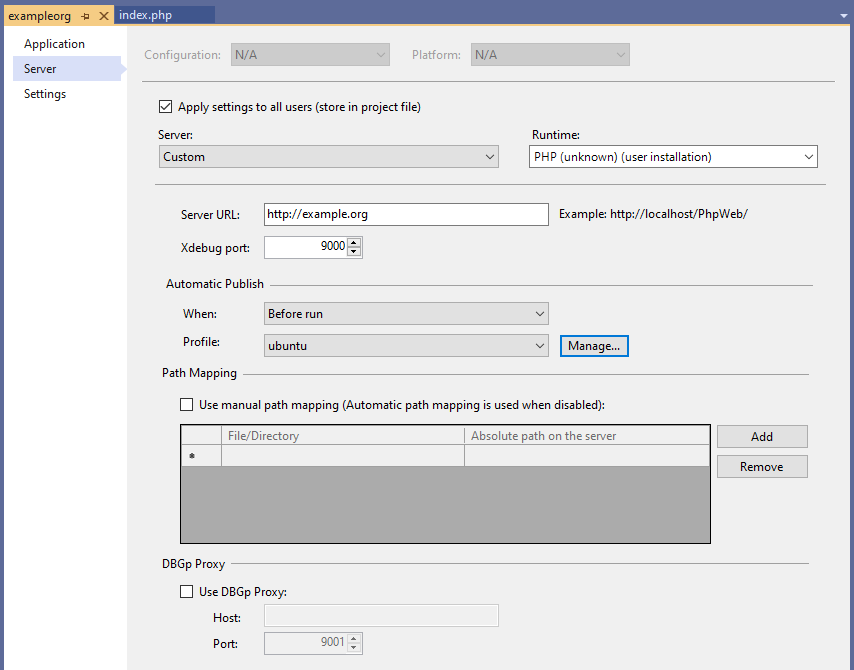
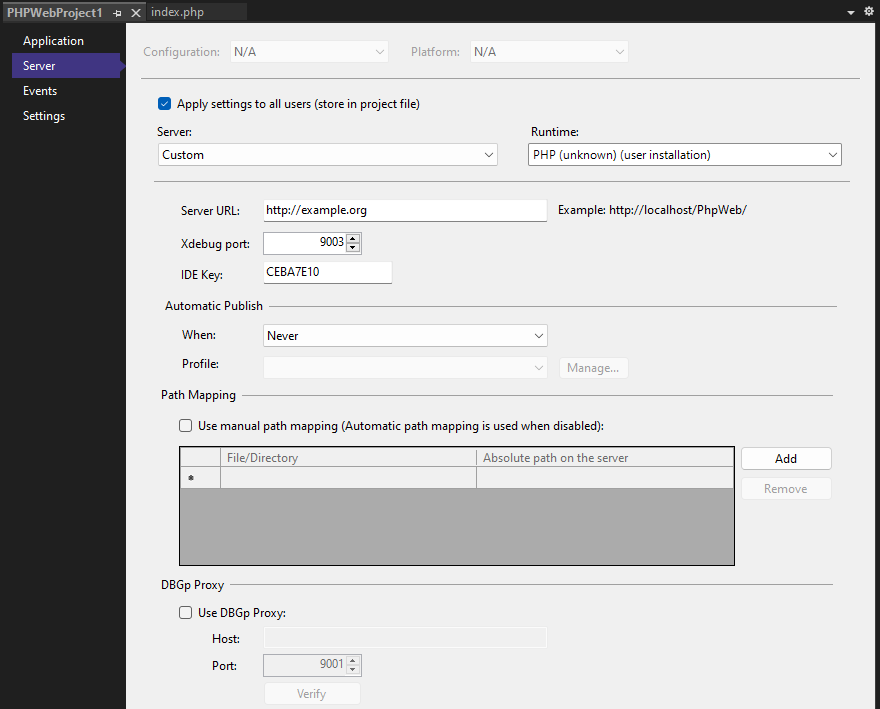
remote-debug doc updates and fixes

diff --git a/docs/vs/Debugging/remote-debug.md b/docs/vs/Debugging/remote-debug.md
@@ -13,15 +13,16 @@ Go to `Project / Properties`, and switch to `Server` tab, as depicted on the scr
 
 ![PHP project properties](imgs/properties-server.png)
 
-Under the `Server` drop down list, choose the `Custom` option. And fill in the following fields:
+Under the `Server` drop-down list, choose the `Custom` option. And fill in the following fields:
 
 - **Server URL:** is the full public URL where the remote server hosts the PHP application.
 - **Xdebug port:** matches the configured Xdebug port number (aka "remote port" or "client port"). Xdebug (the debugging extension installed on the remote server) will contact Visual Studio on this port number. See [configuring Xdebug](configuring-xdebug) for more details.
+- **IDE Key** is a key that will identify IDE or a particular project. You can leave the value which is generated automaticaly or change it to anything else which will be unique.
 - **Path Mapping** is _optional_ set of directory mapping paths on the remote computer (absolute directory path - right column) to the corresponding path on the local computer (relatively to the project root - left column). This allows convenient debugging of the remote code even in case the project structure is more complex and the local directory structure does not match exactly the remote directory structure.
 
     If the mapping is not set, the debugger will infer the simple mapping automatically based on the first script that is hit by the debugger.
 
-- **DBGp Proxy** is standard proxy configuration allowing more developers debugging the same remote project. Configure the values according your proxy. See [multi-user debugging](multi-user) for more details. Note, the DBGp Proxy key gets generated automatically based on user's name or their computer' name.
+- **DBGp Proxy** is a standard proxy configuration allowing more developers to debug the same remote project. Configure the values according to your proxy. See [multi-user debugging](multi-user) for more details. Note, that `IDE Key` is used as a DBGp Proxy key to identify your IDE and project.
 
     The proxy configuration can be validated right on the Project Properties tab using the `Verify` button, as depicted below:
     
@@ -29,12 +30,12 @@ Under the `Server` drop down list, choose the `Custom` option. And fill in the f
 
 ## Starting the debug
 
-Once the project is configured to debug using custom server, initiate the debugging in a standard way - either press `F5` or go to `Debug / Run`. The server URL gets opened in the browser.
+Once the project is configured to debug using a custom server, initiate the debugging in a standard way - either press `F5` or go to `Debug / Run`. The server URL gets opened in the browser.
 
 ## Optional - Automatic publish
 
-Usually the project is developed locally and deployed on the remote server. For this purpose configure the **Automatic Publish** section of the project properties. This allows to continuously upload the locally modified filed over to the remote server upon starting the debug session.
+Usually, the project is developed locally and deployed on the remote server. For this purpose configure the **Automatic Publish** section of the project properties. This allows to continuously upload the locally modified file over to the remote server upon starting the debug session.
 
 ## Troubleshooting
 
-Please watch Visual Studio' Output pane for details. Every important step or error gets logged there. This might help you to get additional information.
+Please watch Visual Studio's Output pane for details. Every important step or error gets logged there. This might help you to get additional information.
